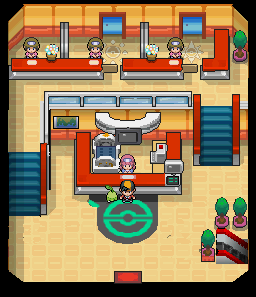
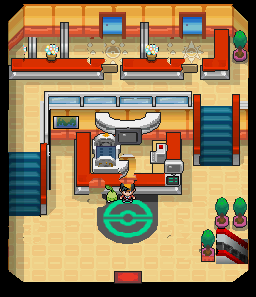
Issue 13 : les personnages sans sprite n'étaient dessinés nulle part
Vu dans la maison de M. Pokémon : la capture montrait des figurants peints, et
NOS deux personnages — M. Pokémon et le Prof. Chen, qui portent le dialogue de
l'Œuf — n'étaient dessinés nulle part. Un PNJ curaté sans `sprite_id` ne
produisait qu'un div vide de 18 px : une tuile invisible qui répond au bouton A.
149 personnages étaient dans ce cas, dont 12 sur le chemin critique.

Trois réponses, du filet au garde-fou :

- le moteur fait HÉRITER l'apparence de l'objet ROM sur la même tuile. La
  curation repose la plupart de ces personnages sur leur objet, et le tri du
  décor retire justement cet objet pour ne pas dessiner deux fois le même
  personnage : l'apparence était là, sous leurs pieds, on la leur rend ;
- les 12 du chemin critique sont réglés un par un — six héritent (posés sur leur
  objet), six déclarent un sprite, source citée dans leur `_note_sprite` ;
- lint-npc-sprites.py refuse tout personnage invisible sur le chemin critique et
  relève les autres zone par zone, pour la passe PNJ.

Trois d'entre eux étaient aussi mal posés : le vendeur au milieu de sa boutique,
l'infirmière à l'autre bout de la salle. Ils reviennent AU comptoir. Leur objet
ROM, lui, se tient derrière — sur une tuile que la grille rend volontairement
inatteignable (le jeu d'origine laisse parler par-dessus le comptoir, pas nous).

Au passage : les sauvegardes de cartes ne vivent plus dans public/maps/. Le
registre y cherche ses captures par mot-clé, et les quatre « Southwest House »
[…]

diff --git a/src/lib/rom-decor.test.ts b/src/lib/rom-decor.test.ts
@@ -6,7 +6,7 @@ import { describe, it, expect } from 'vitest'
 import { getZoneByName } from './zones'
 import { getNpcsForZone } from './npcs'
 import { getTrainersForZone } from './trainers'
-import { visibleRomObjects } from './rom-decor'
+import { visibleRomObjects, inheritedSpriteId } from './rom-decor'
 import { canTraverse, warpAt } from './zone-geometry'
 import { resolveNpcSprite } from './npc-sprites'
 
@@ -47,8 +47,11 @@ describe('doublons avec le contenu curaté', () => {
     // carte, il ne doit retirer que les doublons.
     const ids = served(getZoneByName('MAP_ROUTE_31')!)
     expect(ids).toContain('obj_R31_gsman1')
-    expect(ids).toContain('obj_R31_gsbigman')
     expect(ids).toContain('obj_R31_gsboy1')
+    // obj_R31_gsbigman, lui, a rejoint le contenu curaté le 2026-08-07 :
+    // black_apricorn_man_route31 était posé 4 cases à l'est et invisible, il est
+    // revenu sur son objet — donc trié comme un doublon, comme il se doit.
+    expect(ids).not.toContain('obj_R31_gsbigman')
   })
 
   it('le Silver du décor ne double pas le Silver curaté, à Bourg Geon', () => {
@@ -132,5 +135,27 @@ describe('le couloir ouest de la Route 30 est franchissable', () => {
   it('avec le tri, le couloir remonte jusqu’en haut de la route', () => {
     const solids = new Set(visibleRomObjects(ROUTE_30, occupantsOf(ROUTE_30), []).map(o => `${o.x},${o.z}`))
     expect(northernmostReachable(solids)).toBeLessThan(10)
+  })
+})
+
+describe('un personnage curaté sans sprite déclaré', () => {
+  it('hérite de l’apparence de l’objet ROM qu’il remplace', () => {
+    // Vu en jeu (2026-08-07) : dans la maison de M. Pokémon, la capture montrait
+    // les figurants peints, et nos deux personnages — M. Pokémon et le Prof.
+    // Chen, posés sur leurs objets ROM en (9,7) et (8,7) — n'étaient dessinés
+    // nulle part. Ils portent le dialogue qui donne l'Œuf : invisibles, ils
+    // restaient une tuile vide qui répond au bouton A.
+    const house = getZoneByName('MAP_ROUTE_30_MR_POKEMON_HOUSE')!
+    expect(inheritedSpriteId(house, 9, 7)).toBe('SPRITE_GSGENTLEMAN')
+    expect(inheritedSpriteId(house, 8, 7)).toBe('SPRITE_OOKIDO')
+  })
+
+  it('n’hérite ni d’un arbre, ni d’une Poké Ball, ni d’une tuile vide', () => {
+    // Le filet ne doit pas déguiser un personnage en décor.
+    expect(inheritedSpriteId(ROUTE_30, 0, 0)).toBeUndefined()
+    const tree = ROUTE_30.objects.find(o => o.id === 'obj_R30_tree')!
+    expect(inheritedSpriteId(ROUTE_30, tree.x, tree.z)).toBeUndefined()
+    const ball = ROUTE_30.objects.find(o => o.spriteId === 'SPRITE_MONSTARBALL')
+    if (ball) expect(inheritedSpriteId(ROUTE_30, ball.x, ball.z)).toBeUndefined()
   })
 })

diff --git a/src/app/map/MapClient.tsx b/src/app/map/MapClient.tsx
@@ -51,7 +51,7 @@ import {
   clearedLine,
   type MapProgress,
 } from '@/lib/obstacles'
-import { visibleRomObjects } from '@/lib/rom-decor'
+import { visibleRomObjects, inheritedSpriteId } from '@/lib/rom-decor'
 import { cameraOffset, depthZ, mapZoom, DEPTH_Z_CEILING } from '@/lib/map-camera'
 import { collectibleTextFor } from '@/lib/collectibles'
 import { DEFAULT_CENTER, isPokemonCenter, recordDefeat } from '@/lib/blackout'
@@ -1544,7 +1544,11 @@ export default function MapClient({ zone: initialZone, npcs: initialNpcs, traine
           {npcs.map(npc => {
             const px = worldToPixel(npc.world_x, npc.world_z)
             const intercepting = interceptingNpc === npc.npc_id
-            const sprite = npc.sprite_id ? resolveNpcSprite(npc.sprite_id) : null
+            // Sans sprite_id déclaré, le personnage hérite de l'apparence de
+            // l'objet ROM qu'il remplace (src/lib/rom-decor.ts) — sinon il est
+            // purement invisible.
+            const spriteId = npc.sprite_id ?? inheritedSpriteId(zone, npc.world_x, npc.world_z)
+            const sprite = spriteId ? resolveNpcSprite(spriteId) : null
             const frame = sprite ? spriteFrameOffset(sprite, npc.facing ?? 'south') : null
             return (
               <div
@@ -1598,7 +1602,9 @@ export default function MapClient({ zone: initialZone, npcs: initialNpcs, traine
             // ne rendait qu'un div vide de 18px, donc RIEN à l'écran — d'où
             // « les dresseurs ne font rien », on ne pouvait pas les voir, et
             // encore moins deviner où passait leur ligne de vue (issue 13).
-            const sprite = trainer.sprite_id ? resolveNpcSprite(trainer.sprite_id) : null
+            const spriteId =
+              trainer.sprite_id ?? inheritedSpriteId(zone, trainer.world_x, trainer.world_z)
+            const sprite = spriteId ? resolveNpcSprite(spriteId) : null
             const frame = sprite ? spriteFrameOffset(sprite, trainer.facing) : null
             return (
               <div

diff --git a/src/lib/rom-decor.ts b/src/lib/rom-decor.ts
@@ -73,6 +73,27 @@ function isItemBall(obj: ZoneObject): boolean {
   return obj.spriteId === ITEM_BALL_SPRITE
 }
 
+/** L'apparence qu'un personnage curaté hérite du décor ROM qu'il remplace.
+ *
+ * Un PNJ curaté sans `sprite_id` n'était dessiné NULLE PART : le rendu ne
+ * produisait qu'un div vide de 18 px. Le joueur croisait donc des tuiles vides
+ * qui répondent au bouton A — Mr. Pokémon et le Prof. Chen invisibles dans leur
+ * propre maison, le vieux monsieur d'Écorcia invisible sur le chemin de la
+ * Route 30 (issue 13, QA du 2026-08-07).
+ *
+ * La curation repose la plupart de ces personnages SUR leur objet ROM, et
+ * `visibleRomObjects` retire justement cet objet pour ne pas dessiner deux fois
+ * le même personnage. L'apparence est donc là, sous ses pieds : on la lui rend
+ * plutôt que de la jeter. Ça ne dispense pas d'écrire `sprite_id` — c'est un
+ * filet, pas une source — mais aucun personnage posé sur son objet ROM ne peut
+ * plus devenir invisible par oubli.
+ */
+export function inheritedSpriteId(zone: Zone, worldX: number, worldZ: number): string | undefined {
+  const obj = zone.objects.find(o => o.x === worldX && o.z === worldZ)
+  if (!obj || isObstacle(obj) || isItemBall(obj)) return undefined
+  return resolveNpcSprite(obj.spriteId, obj.eventFlag) ? obj.spriteId : undefined
+}
+
 /** Les objets ROM que la carte sert vraiment, dans l'ordre du registre.
  *
  * @param occupants PNJ et dresseurs curatés DÉJÀ servis pour cette zone

diff --git a/scripts/validate/lint-npc-sprites.py b/scripts/validate/lint-npc-sprites.py
@@ -1,0 +1,150 @@
+#!/usr/bin/env python3
+"""Vérifie qu'un personnage curaté est DESSINÉ quelque part.
+
+POURQUOI (issue 13, QA humaine du 2026-08-07)
+---------------------------------------------
+Un PNJ sans `sprite_id` n'était rendu que comme un div vide de 18 px : rien à
+l'écran. Le joueur croisait des tuiles vides qui répondent au bouton A. Vu dans
+la maison de M. Pokémon — le personnage qui remet l'Œuf, et le Prof. Chen,
+invisibles tous les deux, pendant que la capture montrait leurs sosies peints.
+
+Deux façons d'être visible :
+
+  1. `sprite_id` déclaré, et résoluble en une planche de public/sprites/overworld ;
+  2. à défaut, un objet ROM sur la MÊME tuile : le moteur en hérite l'apparence
+     (`inheritedSpriteId`, src/lib/rom-decor.ts). C'est le cas des personnages
+     reposés sur leur objet ROM, la bonne pratique de la passe PNJ.
+
+Panneaux et objets (`kind`) sont hors sujet : ils sont déjà peints sur la carte.
+
+BLOQUANT sur le chemin critique (début de partie → première arène) : c'est là
+que le joueur est, et un donneur d'objet invisible bloque la progression.
+Ailleurs, un simple relevé — c'est le travail de la passe PNJ
+(.scratch/prompts/passe-pnj-ambiants.md), zone par zone.
+
+  python3 scripts/validate/lint-npc-sprites.py
+"""
+
+from __future__ import annotations
+
+import json
+import re
+import sys
+from pathlib import Path
+
+NPCS = Path("content/map/npcs.json")
+TRAINERS = Path("content/map/trainers.json")
+ZONES = Path("content/map/zones.json")
+REGISTRY = Path("src/data/zone-registry.json")
+SHEETS = Path("public/sprites/overworld")
+
+CRITICAL = {
+    "new-bark-town",
+    "route-29",
+    "cherrygrove-city",
+    "route-30",
+    "route-31",
+    "violet-city",
+    "sprout-tower",
+}
+
+
+SPRITES_TS = Path("src/lib/npc-sprites.ts")
+
+
+def _table(name: str) -> dict[str, str]:
+    """Une des tables de correspondance de npc-sprites.ts, lue à la source pour
+    ne pas la recopier ici (elle changerait sans qu'on le sache)."""
+    src = SPRITES_TS.read_text()
+    bloc = re.search(rf"const {name}: Record<string, string> = {{(.*?)}}", src, re.S)
+    return dict(re.findall(r"(SPRITE_[A-Z0-9_]+):\s*'([a-z0-9_]+)'", bloc.group(1) if bloc else ""))
+
+
+HNS_PEOPLE = _table("HNS_PEOPLE")
+BROKEN_FALLBACKS = _table("BROKEN_SPRITE_FALLBACKS")
+
+
+def resolvable(sprite_id: str) -> bool:
+    """Même cascade que resolveNpcSprite. `SPRITE_VAR_n` est délibérément
+    absent : ce créneau ne se résout QUE depuis le drapeau d'un objet ROM, donc
+    jamais depuis un `sprite_id` écrit à la main."""
+    if sprite_id in HNS_PEOPLE:
+        return (Path("public/sprites/hns/people") / f"{HNS_PEOPLE[sprite_id]}.png").exists()
+    label = BROKEN_FALLBACKS.get(sprite_id) or re.sub(r"^SPRITE_", "", sprite_id).lower()
+    return any((SHEETS / f"{c}.png").exists() for c in (label, re.sub(r"_\d+$", "", label)))
+
+
+def rom_resolvable(obj: dict) -> bool:
+    """Un objet ROM se résout comme un `sprite_id`, PLUS le créneau
+    `SPRITE_VAR_n` : celui-là se lit sur le drapeau de l'objet (l'ami, le rival),
+    ce qu'un sprite_id écrit à la main n'a pas."""
+    sid = obj["spriteId"]
+    if re.fullmatch(r"SPRITE_VAR_\d+", sid):
+        flag = obj.get("eventFlag") or ""
+        if re.search(r"RIVAL|SILVER", flag):
+            return (SHEETS / "gsrivel.png").exists()
+        if "FRIEND" in flag:
+            return (SHEETS / "heroine.png").exists()
+        return False
+    return resolvable(sid)
+
+
+def main() -> int:
+    zones_doc = json.load(open(ZONES))["zones"]
+    default_map = {z["zone_id"]: z["map_name"] for z in zones_doc}
+    registry = {z["name"]: z for z in json.load(open(REGISTRY))["zones"]}
+
+    errors: list[str] = []
+    muets: dict[str, list[str]] = {}
+
+    for entry in json.load(open(NPCS)) + json.load(open(TRAINERS)):
+        eid = entry.get("npc_id") or entry.get("trainer_id")
+        if entry.get("kind") in ("sign", "object"):
+            continue
+        sprite = entry.get("sprite_id")
+        if sprite:
+            if not resolvable(sprite):
+                errors.append(f"{eid}: sprite déclaré introuvable ({sprite})")
+            continue
+
+        # Pas de sprite déclaré : reste l'héritage de l'objet ROM sous ses pieds.
+        home = entry.get("map_zone") or default_map.get(entry["zone_id"])
+        zone = registry.get(home) if home else None
+        herite = None
+        if zone and entry.get("tile_x") is not None:
+            wx = entry["tile_x"] + zone["world_origin_x"]
+            wz = entry["tile_y"] + zone["world_origin_y"]
+            for o in zone["objects"]:
+                if o["x"] == wx and o["z"] == wz and rom_resolvable(o):
+                    herite = o["spriteId"]
+                    break
+        if herite:
+            continue
+
+        cible = errors if entry["zone_id"] in CRITICAL else None
+        if cible is not None:
+            cible.append(
+                f"{eid} ({entry['zone_id']}, {home}): invisible — ni sprite_id, "
+                f"ni objet ROM sur sa tuile"
+            )
+        else:
+            muets.setdefault(entry["zone_id"], []).append(eid)
+
+    total_muets = sum(len(v) for v in muets.values())
+    print(f"{total_muets} personnage(s) encore invisibles hors chemin critique "
+          f"({len(muets)} zone(s)) — travail de la passe PNJ")
+    for zone_id in sorted(muets):
+        noms = ", ".join(sorted(muets[zone_id]))
+        print(f"  [INFO] {zone_id}: {noms}")
+
+    if errors:
+        print(f"\n{len(errors)} personnage(s) invisibles SUR LE CHEMIN CRITIQUE :")
+        for e in errors:
+            print(f"  [ERREUR] {e}")
+        return 1
+    print("Aucun personnage invisible sur le chemin critique.")
+    return 0
+
+
+if __name__ == "__main__":
+    sys.exit(main())

diff --git a/scripts/build/scrub_baked_sprites.py b/scripts/build/scrub_baked_sprites.py
@@ -18,8 +18,8 @@ silhouette. Le sol autour n'est jamais réécrit — donc aucun raccord possible
     python3 scripts/build/scrub_baked_sprites.py MAP_ROUTE_30 --dry-run
     python3 scripts/build/scrub_baked_sprites.py MAP_ROUTE_30
 
-La carte d'origine est sauvegardée en `<nom>.baked.png` la première fois, pour
-qu'un second passage reparte toujours de l'original.
+La carte d'origine est sauvegardée sous scripts/sources/maps-baked/ la première
+fois, pour qu'un second passage reparte toujours de l'original.
 """
 
 from __future__ import annotations
@@ -46,6 +46,7 @@ OFFSETS = [
     if (dx, dy) != (0, 0)
 ]
 SHADOW_RX, SHADOW_RY = 9.0, 5.0  # demi-axes de l'ombre, en pixels
+BAKED = Path("scripts/sources/maps-baked")  # les originaux, avant effacement
 RING = 3  # épaisseur, en pixels, de la couronne de décor qui juge un décalage
 
 
@@ -74,7 +75,10 @@ def shadow_of(cx: float, cy: float, h: int, w: int) -> np.ndarray:
 def scrub(zone_name: str, threshold: float, dry_run: bool) -> int:
     zone = next(z for z in json.load(open(REGISTRY))["zones"] if z["name"] == zone_name)
     shot = Path("public") / zone["screenshot"].lstrip("/")
-    backup = shot.with_suffix(".baked.png")
+    # L'original vit HORS de public/maps/ : le registre y cherche ses captures
+    # par mot-clé, et une sauvegarde posée à côté se faisait servir à des zones
+    # qui partagent le nom (les quatre « Southwest House » ont pris le .baked).
+    backup = BAKED / shot.name
     if backup.exists():
         Image.open(backup).convert("RGB").save(shot)
 
@@ -140,6 +144,7 @@ def scrub(zone_name: str, threshold: float, dry_run: bool) -> int:
         print(f"{zone_name} : {done} silhouette(s) — essai à blanc, rien écrit")
         return done
     if not backup.exists():
+        backup.parent.mkdir(parents=True, exist_ok=True)
         Image.open(shot).convert("RGB").save(backup)
     Image.fromarray(img.astype(np.uint8)).save(shot)
     revalidate_alignment(zone_name, shot)
